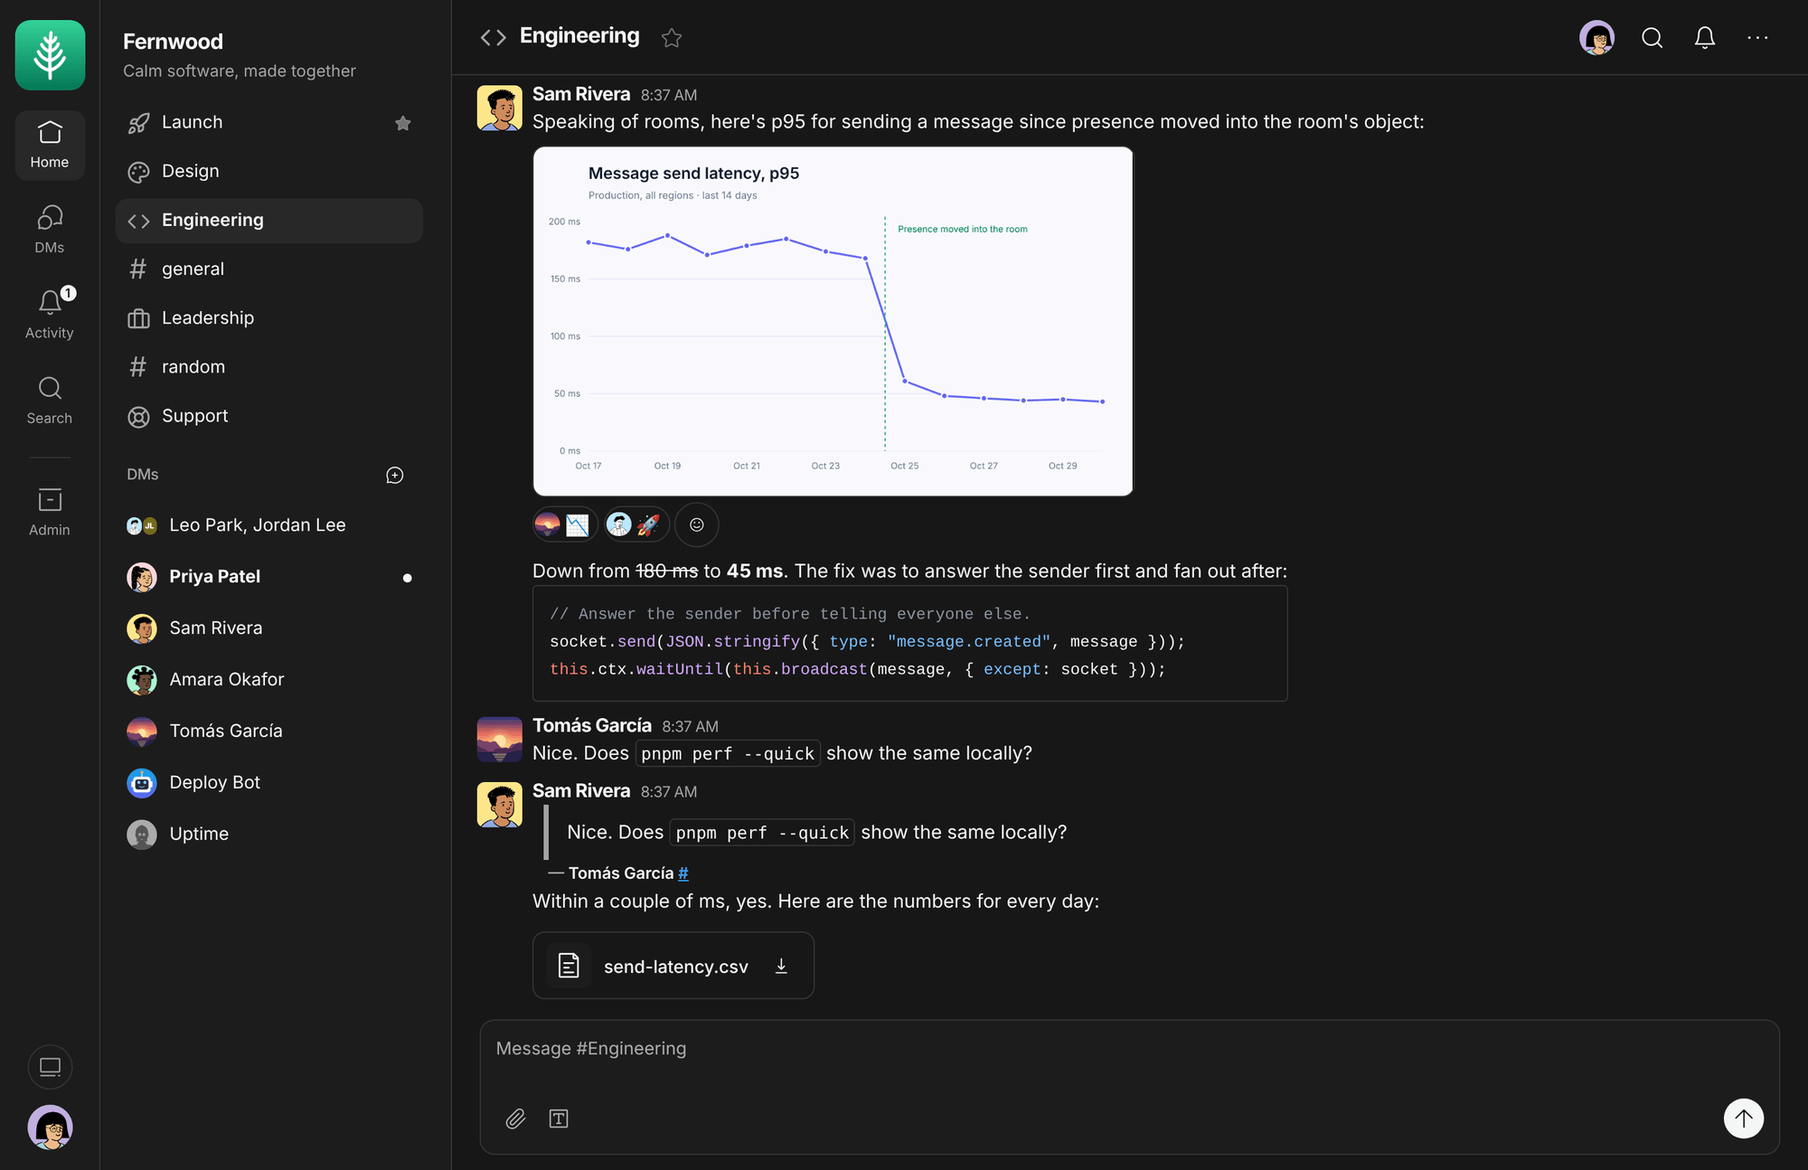
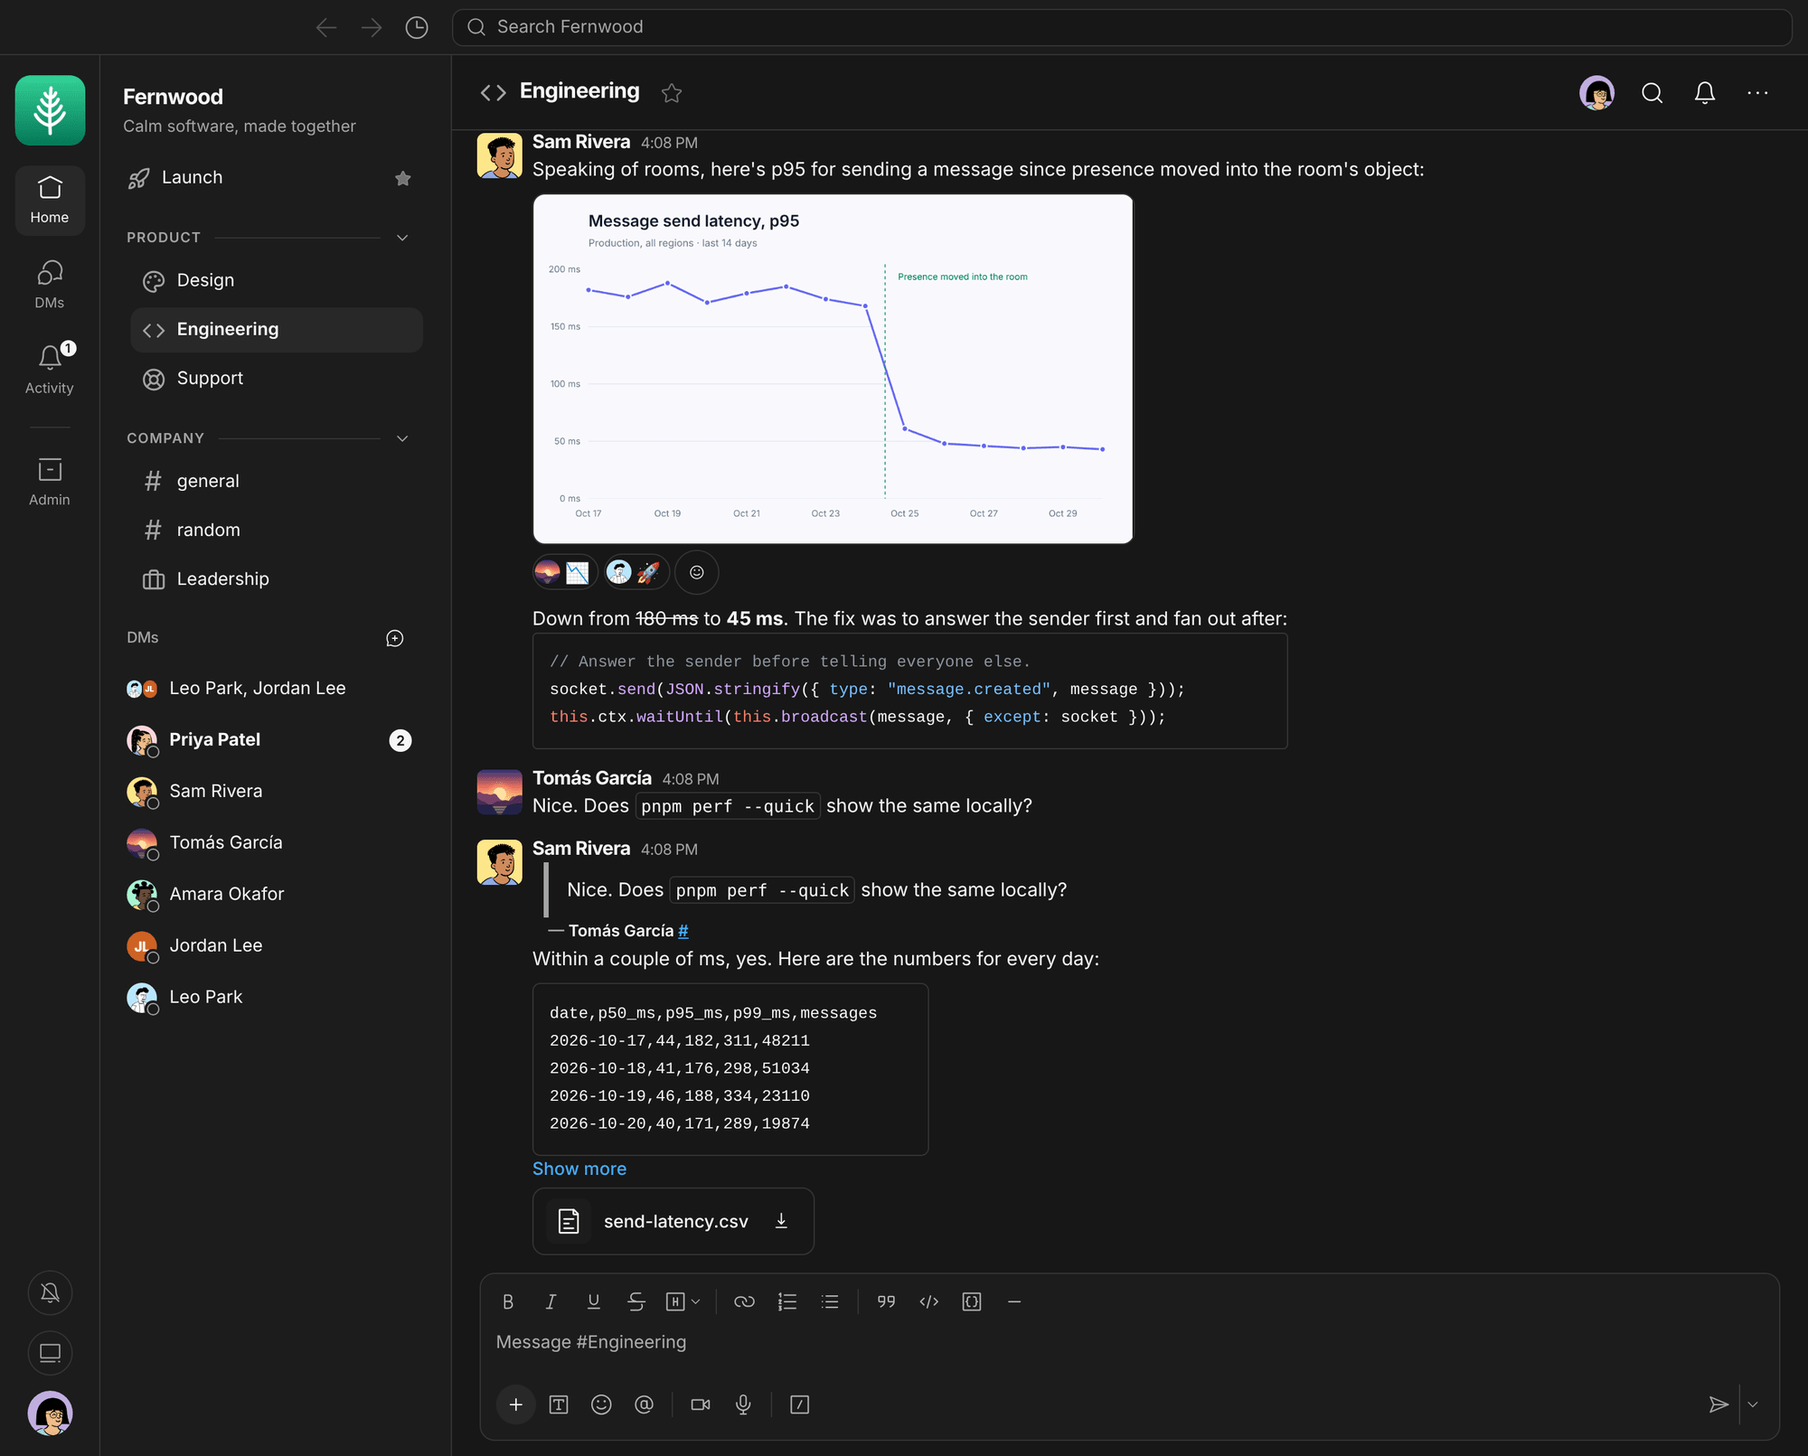
Bring the README up to date with what Ember offers since 0.5
The README still gave Slack the edge on apps, clips and scheduled
messages, which Ember has now, and its pictures predate the top bar,
sidebar sections and the composer's rows.

- New sections: finding your way around (the top bar, sections, muted
  rooms, mention counts, the New line, shortcuts), huddles, and keeping
  a community safe (Report, Block, Blocked words, bans, Delete my
  account).
- The composer's formatting row, / commands, drafts, scheduled messages
  and clips; GIFs and the waveform and card players; Statuspage cards
  and bots' threads and files; agents' apps, room reading and cards;
  outside AI; search in Japanese, Chinese and Korean.
- The Slack tables move huddles, clips and scheduled messages to
  Everyday chat, give Ember's apps their row, correct Slack's AI plans
  and free huddle limits as slack.com listed them in November 2026, and
  add reminders, pins, saved messages and custom status to what Slack
  does more.
- Feature text says Slack-inspired rather than "as Slack does"; the
  tables still compare with Slack by name, and webhooks stay
  Slack-compatible.
- The banner and all seven screenshots retaken from the seeded Fernwood
  team in today's look.

Claude-Session: https://claude.ai/code/session_017DYqKHCnWpjBrrxLdf8LW5

diff --git a/README.md b/README.md
@@ -4,7 +4,7 @@
 
 <p align="center">
   A real-time chat app that runs entirely on Cloudflare.<br>
-  Rooms, threads, DMs, files, search, bots and push notifications, deployed in one click.
+  Rooms, threads, DMs, huddles, files, search, AI agents, bots and push notifications, deployed in one click.
 </p>
 
 <p align="center">
@@ -41,45 +41,69 @@ Cloudflare's network, quiet rooms hibernate, and every push to your copy deploys
 Rooms for every project, private rooms for the few who need them, and DMs with one person or a few.
 Reply in a thread to keep a room on topic, and tick **Also send to the room** when everyone should see
 the answer. Mention people, or the whole room with @channel and @here, and everyone with @everyone in
-an open room, which ask first in a room of six or more, as Slack's do, and which administrators can keep
-to themselves or turn off in a room. Link a room with #, as Slack links a channel: anyone who isn't in a
-private room sees a lock and "private room" in place of its name. Quote a message, react with any emoji
-or a few words of your own, and edit or delete what you wrote.
+an open room, which ask first in a room of six or more, and which administrators can keep to
+themselves or turn off in a room. Link a room with #: anyone who isn't in a private room sees a lock
+and "private room" in place of its name. Quote a message, react with any emoji or a few words of your
+own, and edit or delete what you wrote. You see who's here and who's typing, as it happens.
 
-Unread rooms stand out, **Activity** narrows the list to what you haven't read, and each room's bell
-says whether you hear about every message, only mentions, or nothing. **Pause notifications** quiets
-them all for half an hour, a few hours or until tomorrow, with a half-moon on your picture meanwhile, as
-Slack's does. You see who's here and who's typing, as it happens.
-
-![Ember's Launch room: a deploy bot's card, reactions, and a thread open beside the room](docs/screenshots/hero.png)
+![Ember's Launch room under its top bar: the sidebar in sections, a deploy bot's card, reactions, and a thread open beside the room](docs/screenshots/hero.png)
 
 <p align="center">
   <sub>The people and conversations in these screenshots are made up: they're the Fernwood team that <code>pnpm seed</code> creates.</sub>
 </p>
 
+### Find your way around
+
+A Slack-inspired top bar holds search, Back and Forward, and History, which lists the places you were
+just in. Sort the sidebar into named sections that fold, star the rooms you live in, and mute the ones
+you only look in now and then: a muted room stays dim, and stays out of **Activity** unless someone
+mentions you. Unread rooms stand out, each counting the mentions waiting in it, **Activity** narrows
+the list to what you haven't read, and a New line marks where you left off. Each room's bell says
+whether you hear about every message, only mentions, or nothing, and **Pause notifications** quiets
+them all for half an hour, a few hours or until tomorrow, with a half-moon on your picture meanwhile.
+Whoever joins has a DM with each person already here, which opens with their joining, and ⌘/, or
+Ctrl+/, lists the keyboard shortcuts.
+
 ### Say it clearly
 
-Bold, lists, quotes, and code blocks with syntax highlighting. Paste a link and Ember shows a preview,
-and share a chart, a spreadsheet or anything else right in the conversation. Light, dark, or whatever
-your system says.
+A Slack-inspired composer puts its formatting over what you write and its buttons under it: bold,
+lists, quotes, and code blocks with syntax highlighting, emoji, mentions, and 13 / commands, from
+/huddle to /snippet. Drafts wait for you to come back to them, a message can be scheduled for later,
+and an audio or video clip of up to five minutes records right where you type. A link gets its
+preview a moment after you send it, a code block has a button that copies it, a text file reads as a
+snippet in its message, and a message can run to 40,000 characters. Light, dark, or whatever your
+system says.
 
-![Ember in dark mode: a chart, a code block, a quote and a shared CSV in the Engineering room](docs/screenshots/dark.png)
+![Ember in dark mode: a chart, a code block, a quote and a CSV read as a snippet in the Engineering room](docs/screenshots/dark.png)
 
 ### Files, pictures and video
 
-Share files of up to 250 MB. Pictures show in the conversation, videos play where they're posted, and
-everything else is a click away. Files go to an R2 bucket in your Cloudflare account, which charges
-nothing for downloads.
+Share files of up to 250 MB. Pictures show in the conversation, GIFs play, videos play in a card
+player of Ember's own, and sounds in one that draws their waveform, while everything else is a click
+away. Files go to an R2 bucket in your Cloudflare account, which charges nothing for downloads.
 
-![A PDF, a quote and a video playing inline in the Design room](docs/screenshots/files.png)
+![A PDF, two quotes, and a video in Ember's card player, in the Design room](docs/screenshots/files.png)
+
+### Huddles
+
+Call a room or a DM by voice, camera and shared screen, in a Slack-inspired layout, for up to 50
+people, over Cloudflare's [Realtime SFU](https://developers.cloudflare.com/realtime/sfu/). A huddle in
+a DM rings the others in it, **Invite people** rings whoever else you pick, and whoever doesn't have
+Ember in view gets the invitation as a push notification. Video is HD unless an administrator picks
+Standard or Full HD, and steps down on a slow connection. Raise a hand, show a sticker, or react with
+emoji. Each huddle has a message in its room, whose thread the huddle shows beside the people in it,
+and **Huddles**, in the sidebar, lists the ones going on and the recent ones. Administrators turn
+huddles on with a Realtime SFU app's keys, and can turn them off in a room.
 
 ### Bots that already speak Slack
 
 Point Alertmanager, Grafana, your CI pipeline, or anything else that posts to a Slack incoming webhook
 at Ember instead. Every bot gets a Slack-compatible webhook URL for each of its rooms, which takes the
-same payloads, with Slack's formatting, attachments and Block Kit cards. Bots can answer too: mention
-one, or DM it, and Ember sends the message to the bot's own webhook and posts what it answers within
-30 seconds. A card's buttons can act: a click goes to the bot, which puts a new card in its place.
+same payloads, with Slack's formatting, attachments and Block Kit cards, and status pages on Atlassian
+Statuspage, such as githubstatus.com, post their incidents there as cards. Bots can answer too:
+mention one, or DM it, and Ember sends the bot the message, with any files in it, and posts what it
+answers within 30 seconds, in the thread it was asked in. A card's buttons can act: a click goes to
+the bot, which puts a new card in its place.
 
 ![Alerts from a monitoring bot, firing and resolved, in the Support room](docs/screenshots/bots.png)
 
@@ -89,23 +113,40 @@ Turn on Ember AI and choose Claude, GPT or Grok, asked through
 [Cloudflare AI Gateway](https://developers.cloudflare.com/ai-gateway/), or a model Cloudflare runs
 itself on [Workers AI](https://developers.cloudflare.com/workers-ai/). Ember checks for new models
 every day, so they show up without an update. Then mention @ember in a room or a thread, or DM it, and
-it reads the conversation and answers right there, with links, lists, code and pictures, as a teammate
-would. It searches the web too, when you let it, listing the pages its answer came from, and Claude,
-GPT and Grok search the room for what was said before. Administrators set how long it may think and
-write, and each person picks their own levels on their profile. Administrators can add agents of their
-own too, each with its instructions, model and rooms, such as one that sums up long threads or drafts
-replies in Support, and people mention or DM them just the same. Available Agents, in everyone's
-sidebar, lists the agents they can ask, with what each does and the rooms it's in, and administrators
-can keep an agent for themselves, in its rooms or only in their own DMs with it.
+it reads the conversation and answers right there, with links, lists, code, pictures and cards, as a
+teammate would. It searches the web too, when you let it, listing the pages its answer came from, and
+Claude, GPT and Grok read back through the room and its threads, and search for who said what, but
+only in the conversation they're asked in. Administrators set how long it may think and write, and
+each person picks their own levels on their profile.
+
+Administrators can add agents of their own too, each with its instructions, model and rooms, such as
+one that sums up long threads or drafts replies in Support, and people mention or DM them just the
+same. Give an agent apps, other services' [MCP](https://modelcontextprotocol.io) servers, and it uses
+the tools you pick for it, once the person who asked allows each call, unless you always allow a tool
+in open rooms. **Available Agents**, in everyone's sidebar, lists the agents they can ask, with what
+each does and the rooms it's in, and administrators can keep an agent for themselves.
+
+It works the other way round too: turn on Outside AI, and an AI app such as Claude or ChatGPT can
+connect to Ember as one of its people, to read and search the rooms they're in, and to send messages
+as them if they let it, in their DMs and private rooms only if they let it in there as well.
 
 ### Find anything
 
 Press ⌘F, or Ctrl+F, to search every message in the rooms and DMs you're in, thread replies included,
-and narrow it as you would in Slack: to a room, to what someone wrote, to what mentions you, or to
-links, files or threads. Results come newest or oldest first, with the words they matched marked, and
-your recent searches are a key away.
+and narrow it to a room, to what someone wrote, to what mentions you, or to links, files or threads.
+Results come newest or oldest first, with the words they matched marked, and your recent searches are
+a key away. Search finds Japanese, Chinese and Korean words inside a sentence, too.
 
-![Search results for "thanks" under Slack's filter chips, each a card naming its DM or room, with the word marked](docs/screenshots/search.png)
+![Search results for "thanks" under its filter chips, each a card naming its DM or room, with the word marked](docs/screenshots/search.png)
+
+### Keep it safe
+
+Anyone can **Report** a message, or someone's name, picture or bio, and administrators find it in
+Membership, beside **Delete message**, **Remove** and **Ban**. A ban signs someone out, deletes their
+messages and blocks their IP addresses. **Block** someone, and their messages fold away for you.
+**Blocked words** keeps the words and phrases an administrator lists out of messages, reactions, the
+names of files and rooms, and people's names, usernames and bios. And **Delete my account**, on
+everyone's profile, deletes their account with their messages, files and reactions.
 
 ### On your phone
 
@@ -114,7 +155,7 @@ on push notifications for the messages you want to hear about. It's made for pho
 rooms, tap targets sized for thumbs, nothing hiding under the notch, and messages written without
 signal send once you're back online. To sign in on your phone, scan the QR code on your profile.
 
-![Ember on three phones: the room drawer, the Launch room, and a photo in dark mode](docs/screenshots/phones.png)
+![Ember on three phones: the room drawer with search atop it, the Launch room, and a photo in dark mode](docs/screenshots/phones.png)
 
 ### Make it yours
 
@@ -127,13 +168,13 @@ with [Cloudflare Turnstile](https://www.cloudflare.com/application-services/prod
 keeping bots out.
 
 <p align="center">
-  <img src="docs/screenshots/membership.png" width="640" alt="Membership settings: Open, Join link with its QR code, Email domain and Memberful, each with a switch">
+  <img src="docs/screenshots/membership.png" width="640" alt="Who can join, in Membership: Open, Join link with its address, Email domain, Memberful and Single sign-on, each with a switch">
 </p>
 
 ## Ember and Slack, side by side
 
 Slack does more, and charges for it per person. Ember does the everyday core of team chat well, and
-it's yours. Slack's plans are as [slack.com/pricing](https://slack.com/pricing) listed them in October
+it's yours. Slack's plans are as [slack.com/pricing](https://slack.com/pricing) listed them in November
 2026.
 
 ### Price and ownership
@@ -155,9 +196,11 @@ it's yours. Slack's plans are as [slack.com/pricing](https://slack.com/pricing) 
 | **Threads** | ✅ with Also send to the room | ✅ with Also send to the channel |
 | **Mentions, quotes, reactions and edits** | ✅ @channel, @here and @everyone as well, #rooms, and react with any emoji or a few words | ✅ plus custom emoji |
 | **Rich text, code blocks and link previews** | ✅ | ✅ |
+| **Drafts, scheduled messages, / commands, and audio and video clips** | ✅ | ✅ |
+| **Huddles, by voice, camera and shared screen** | ✅ for up to 50 people | ✅ (Free: two people, for up to 30 minutes) |
 | **Files** | ✅ up to 250 MB each | ✅ up to 1 GB each |
-| **Search** | ✅ every message in your rooms and DMs, with Slack's filters for rooms, people, links, files and threads | ✅ (Free: the last 90 days) |
-| **Unread, Activity, starred rooms, per-room notifications** | ✅ | ✅ |
+| **Search** | ✅ every message in your rooms and DMs, with filters for rooms, people, links, files and threads | ✅ (Free: the last 90 days) |
+| **Unread, Activity, sidebar sections, muted rooms, per-room notifications** | ✅ | ✅ |
 | **Phones** | ✅ installable web app with push notifications | ✅ native iPhone and Android apps |
 | **Computers** | ✅ any modern browser, or installed as an app | ✅ native Mac, Windows and Linux apps, or the browser |
 | **Light and dark** | ✅ | ✅ |
@@ -170,12 +213,12 @@ it's yours. Slack's plans are as [slack.com/pricing](https://slack.com/pricing) 
 
 | | Ember | Slack |
 |---|---|---|
-| **Apps and workflows** | — | ✅ a directory of 2,600+ apps (Free: 10 of them) and Workflow Builder |
-| **Voice and video calls** | Huddles in any room or DM, by voice, camera and shared screen, in HD, or Standard or Full HD as an administrator chooses, with raised hands, stickers and emoji reactions, for up to 50 people; one in a DM rings the others in it, Invite people rings whoever else in the room you pick, and whoever doesn't have Ember in view gets the invitation as a push notification; each has a message in its room to join it from, with a thread of its own, which the huddle shows beside the people in it; Huddles, in the sidebar, lists the ones going on, to join, and the recent ones, with their threads; an administrator can turn huddles off in a room, in its settings, and each person chooses which of a huddle's sounds they hear | ✅ huddles (Free: one-on-one only) |
-| **AI** | @ember and agents of your own answer when you mention or DM them, each on the model you choose | ✅ summaries, recaps and AI search on every plan, more on Business+ |
-| **Canvases, lists and clips** | — | ✅ |
+| **Apps and workflows** | Apps for AI agents: another service's MCP server, whose tools you pick for each agent | ✅ a directory of over 2,600 apps (Free: 10 of them) and Workflow Builder |
+| **AI** | @ember and agents of your own answer when you mention or DM them, each on the model you choose | ✅ summaries and huddle notes from Pro, and AI search, recaps and translations on Business+ |
+| **Canvases and lists** | — | ✅ |
 | **Channels shared with other companies** | — | ✅ Slack Connect |
-| **Scheduled messages and reminders** | — | ✅ |
+| **Reminders** | — | ✅ |
+| **Pinned and saved messages, and custom status** | — | ✅ |
 | **Guest accounts** | — | ✅ on paid plans |
 | **Exports of every message, DMs included** | — not yet | ✅ on Business+ and up |
 | **Support** | GitHub issues | ✅ 24/7 on Business+ |
@@ -244,9 +287,10 @@ was made.
 
 From then on, every push to your copy deploys again, and each new release of Ember arrives in your copy
 as a pull request that deploys it once you merge it, while Ember's admin settings say it's out, with a
-button that opens the workflow on GitHub to run it sooner. The
+button that opens the workflow on GitHub to run it sooner. A copy can take the next release's betas
+too, only when it asks for them, as [Betas](docs/self-hosting.md#betas) says. The
 [self-hosting guide](docs/self-hosting.md) covers updating, deploying from your own machine, a custom
-domain, email, push notifications, Memberful, single sign-on and more.
+domain, email, push notifications, Memberful, single sign-on, AI, apps, huddles and more.
 
 ### Try it on your computer
 
@@ -267,17 +311,20 @@ pnpm seed       # in a second terminal: the made-up Fernwood team sets Ember up 
   holding the room's live connections, who's here and who's typing, and, by default, its messages in
   its own SQLite database. Quiet rooms hibernate, so an idle workspace uses next to nothing.
 - **Secure by default.** HTTPS everywhere with HSTS, a strict Content Security Policy, passwords hashed
-  with scrypt, and setup only through the deploy's own link. Removing someone ends their sessions
-  within a minute. The [security notes](docs/self-hosting.md#security-notes) have the rest.
+  with scrypt, and setup only with the deploy's own password or link. Removing someone ends their
+  sessions within a minute. The [security notes](docs/self-hosting.md#security-notes) have the rest.
 - **Tested hard.** The Worker's tests run on both storage backends, and browser tests drive the app on
-  a desktop and on seven emulated phones, from a 320px iPhone SE up.
+  a desktop and on seven emulated phones, from a 320px iPhone SE up, and again in Safari's engine.
 
 ## Learn more
 
-- [Self-hosting guide](docs/self-hosting.md): deploying, what it costs, custom domains, who can join,
-  email, push notifications, files and security.
+- [Self-hosting guide](docs/self-hosting.md): deploying, updates and betas, what it costs, custom
+  domains, who can join, single sign-on, email, push notifications, files, Ember AI, agents, apps,
+  outside AI, huddles and security.
 - [Slack-compatible webhooks](docs/slack-webhooks.md): what bots can post, and how it looks.
 - [The models file](docs/models.md): the models every copy of Ember offers, and how to change them.
+- [Releases](https://github.com/NYLLON-SOFTWARE/ember-cloudflare/releases): what each version of Ember
+  brought.
 - [Development](docs/development.md): the code's layout, running Ember locally, tests and performance.
 - [The database](docs/database.md): Ember's schema beside Campfire's.
 - [Security policy](SECURITY.md): how to report a vulnerability privately.
